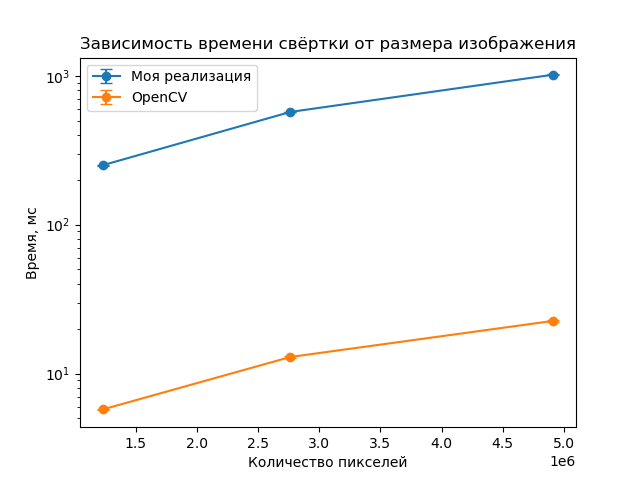
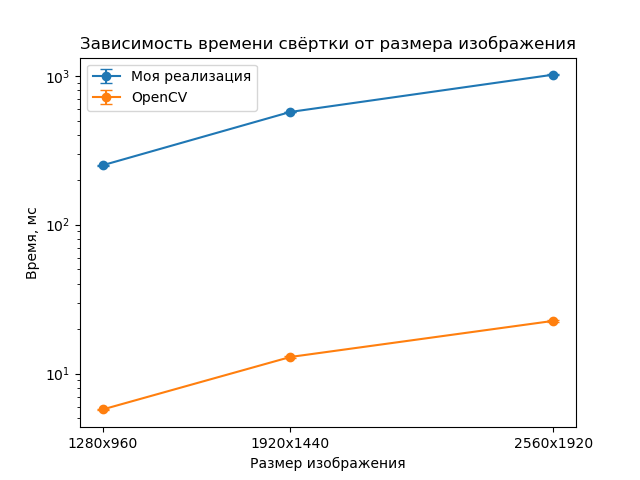
feat: label dimensions on the graph axis, update the diagrams, remote the histograms

diff --git a/experiments/experiment_analysis.py b/experiments/experiment_analysis.py
@@ -188,9 +188,10 @@ def main():
                  capsize=4, label="Моя реализация")
     plt.errorbar(pixel_counts, opencv_mean_times, yerr=opencv_errors,
                  marker="o", capsize=4, label="OpenCV")
-    plt.xlabel("Количество пикселей")
+    plt.xlabel("Размер изображения")
     plt.ylabel("Время, мс")
     plt.yscale("log")
+    plt.xticks(pixel_counts, size_labels)
     plt.title("Зависимость времени свёртки от размера изображения")
     plt.legend()
     plt.savefig("speedup.png")
